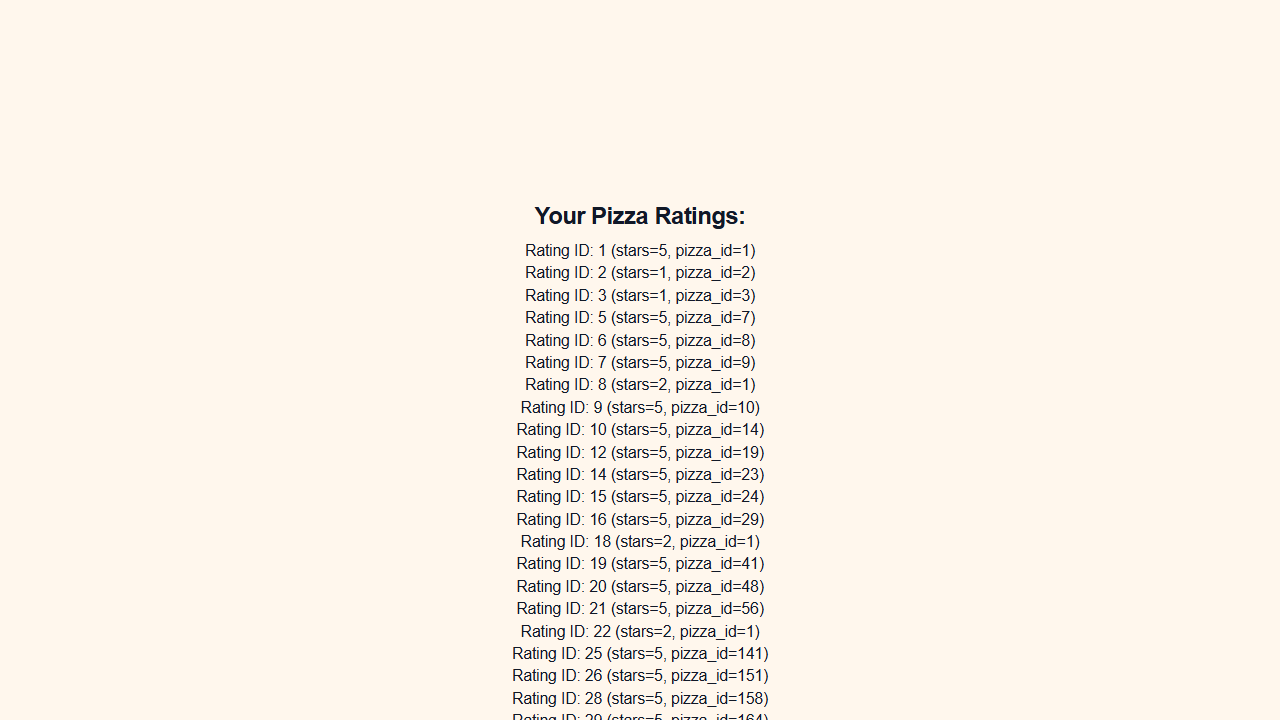
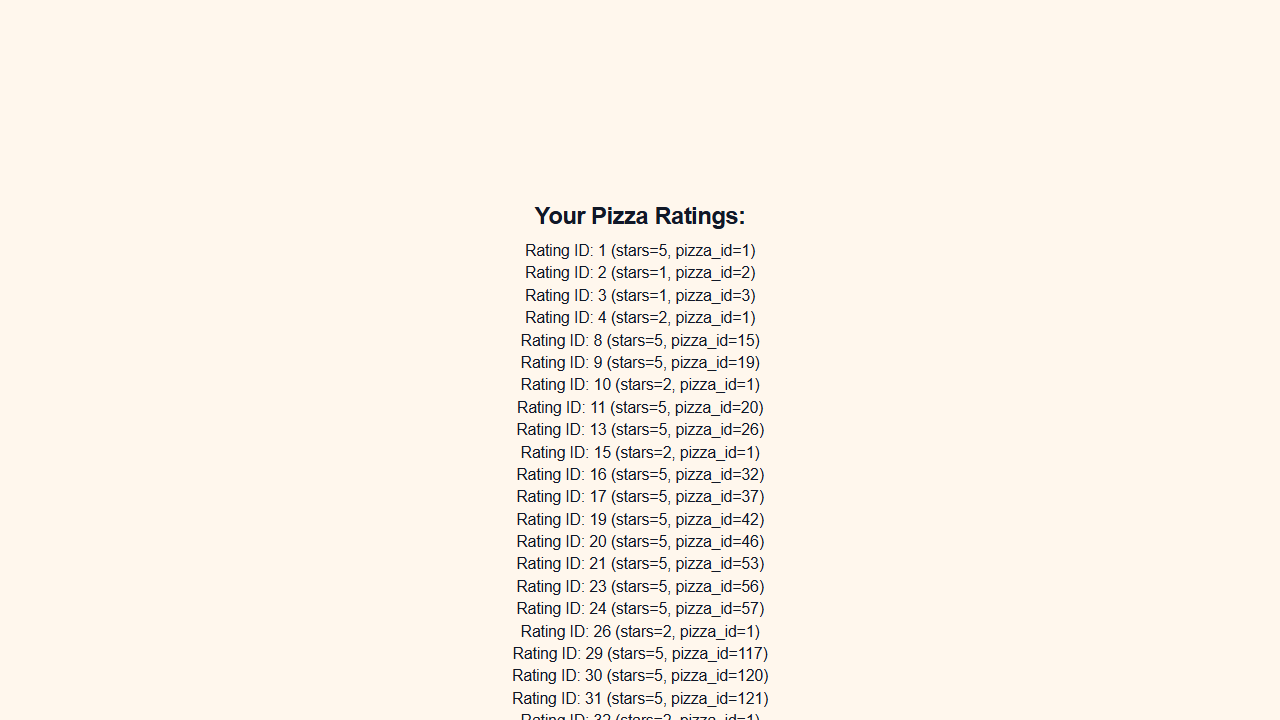
Custom cammand added for https scripts

Changed region(s): [[0.4062, 0.4583, 0.5938, 0.825], [0.4062, 0.8861, 0.5938, 1.0]]

diff --git a/browser-script.js b/browser-script.js
@@ -9,8 +9,8 @@ export const options = {
   scenarios: {
     ui: {
       executor: "shared-iterations",
-      vus: 1,
-      iterations: 1,
+      vus: 5,
+      iterations: 10,
       options: {
         browser: {
           type: "chromium",